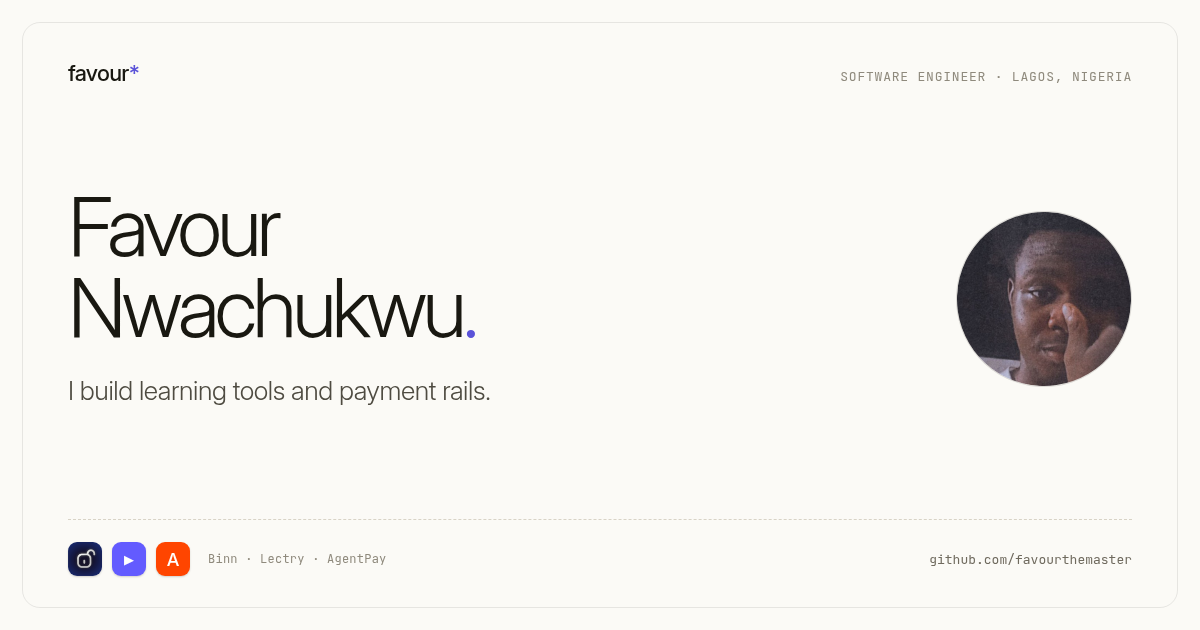
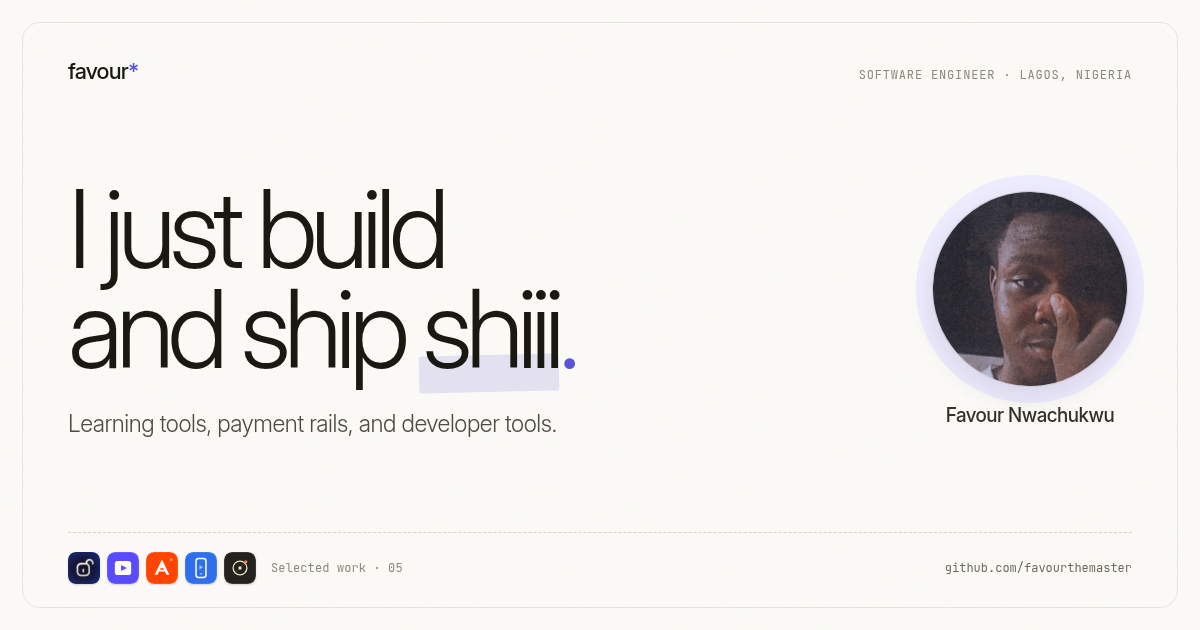
Update about headline and OG image

diff --git a/src/pages/About.tsx b/src/pages/About.tsx
@@ -36,7 +36,7 @@ export function About() {
         <header className="page-head wrap">
           <span className="section-label">About</span>
           <h1 className="page-title" style={{ marginTop: 16 }}>
-            I just build and ship shii.
+            I just build and ship shiii.
           </h1>
         </header>
 
